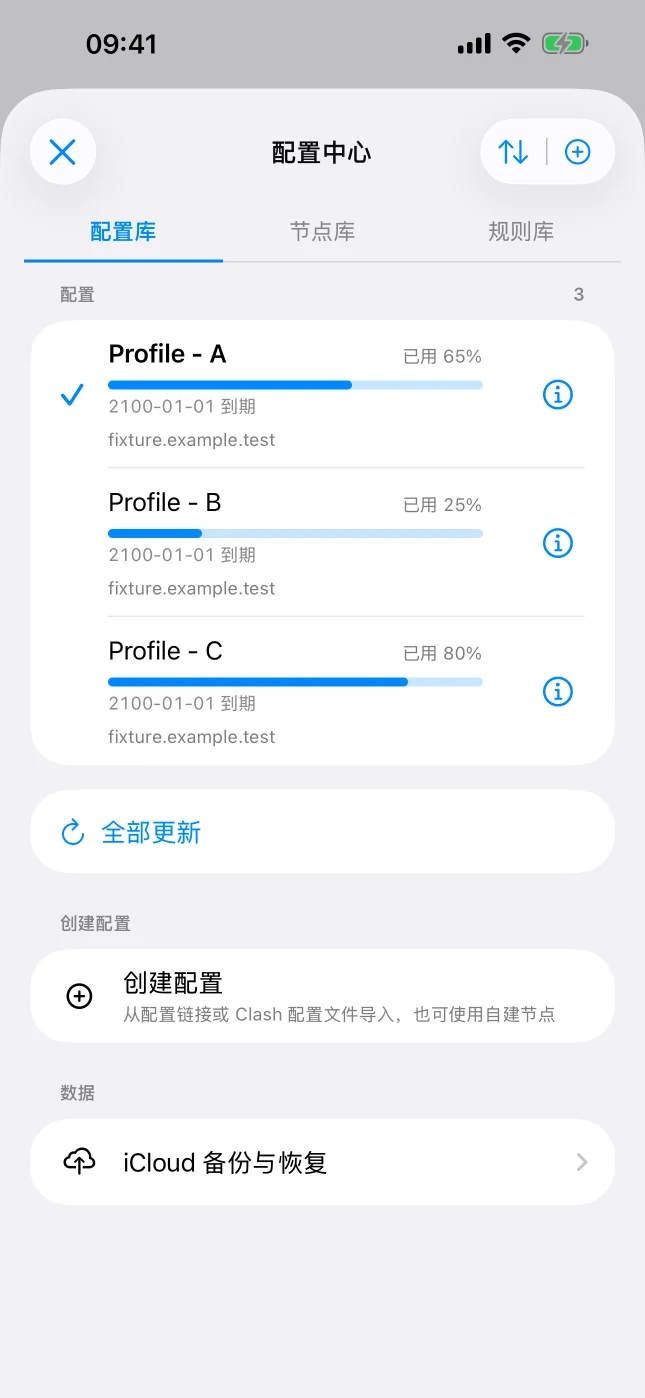
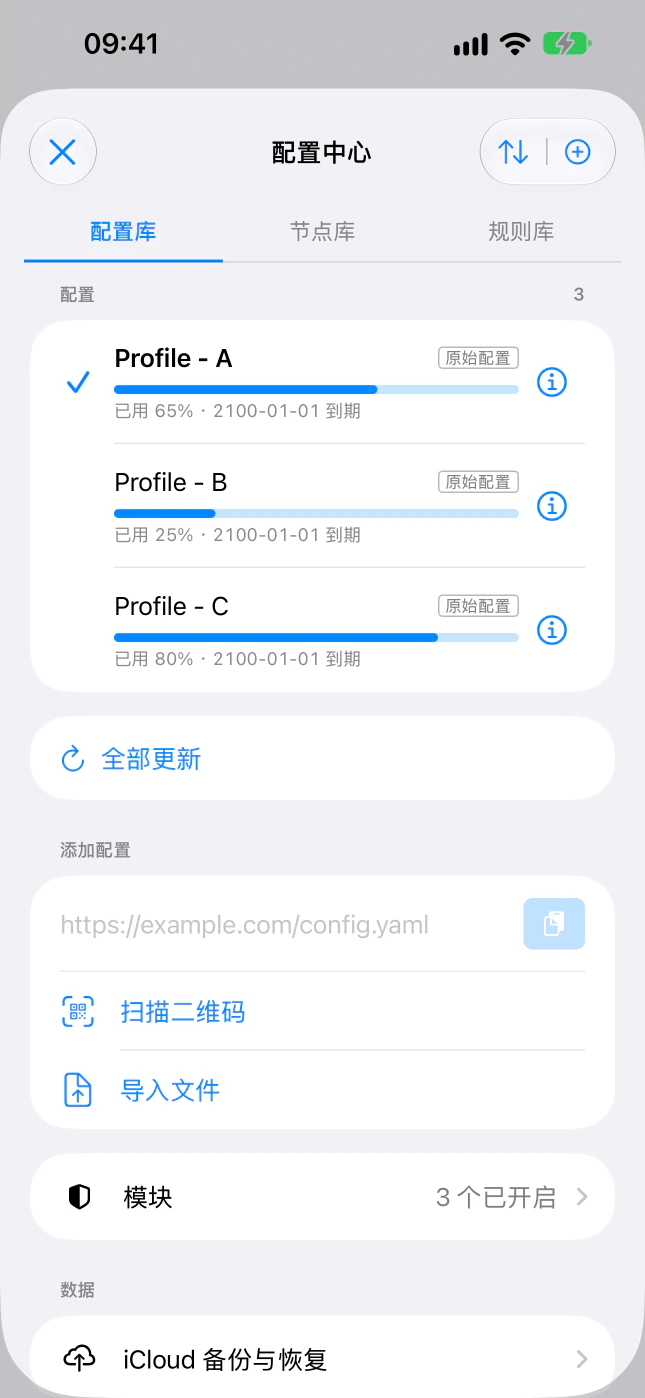
docs: refresh iPhone and iPad screenshots from iOS 1.0.13
Profiles, Proxies, and Utilities now show the Add Profile card, the
Modules row, Jump to Current Node, and the renamed tool sections. The
iPhone gallery adds Modules, module details with a panel and settings,
and View Source for a large configuration. All data is example data.

Claude-Session: https://claude.ai/code/session_015AeJZnER4qeabBoE5b48Ke

diff --git a/docs/zh/platforms/ios.md b/docs/zh/platforms/ios.md
@@ -63,7 +63,7 @@ pageClass: clash-platform-page
       <label for="ios-gallery-tablet-zh">iPad</label>
       <div class="platform-gallery-panels">
         <div class="platform-gallery-panel platform-gallery-panel--phone">
-          <div class="platform-screenshot-rail platform-screenshot-rail--phone" aria-label="Clash iPhone 版截图"><img src="/screenshots/platforms/ios/gallery/iphone-zh-01.webp" alt="iPhone · 首页" loading="lazy"><img src="/screenshots/platforms/ios/gallery/iphone-zh-02.webp" alt="iPhone · 配置列表" loading="lazy"><img src="/screenshots/platforms/ios/gallery/iphone-zh-03.webp" alt="iPhone · 代理与策略组" loading="lazy"><img src="/screenshots/platforms/ios/gallery/iphone-zh-04.webp" alt="iPhone · 分流规则" loading="lazy"><img src="/screenshots/platforms/ios/gallery/iphone-zh-05.webp" alt="iPhone · 网络工具" loading="lazy"></div>
+          <div class="platform-screenshot-rail platform-screenshot-rail--phone" aria-label="Clash iPhone 版截图"><img src="/screenshots/platforms/ios/gallery/iphone-zh-01.webp" alt="iPhone · 首页" loading="lazy"><img src="/screenshots/platforms/ios/gallery/iphone-zh-02.webp" alt="iPhone · 配置列表" loading="lazy"><img src="/screenshots/platforms/ios/gallery/iphone-zh-03.webp" alt="iPhone · 代理与策略组" loading="lazy"><img src="/screenshots/platforms/ios/gallery/iphone-zh-04.webp" alt="iPhone · 分流规则" loading="lazy"><img src="/screenshots/platforms/ios/gallery/iphone-zh-05.webp" alt="iPhone · 网络工具" loading="lazy"><img src="/screenshots/platforms/ios/gallery/iphone-zh-06.webp" alt="iPhone · 模块与 HTTPS 解密" loading="lazy"><img src="/screenshots/platforms/ios/gallery/iphone-zh-07.webp" alt="iPhone · 模块详情：面板与设置" loading="lazy"><img src="/screenshots/platforms/ios/gallery/iphone-zh-08.webp" alt="iPhone · 查看大配置的源码" loading="lazy"></div>
         </div>
         <div class="platform-gallery-panel platform-gallery-panel--tablet">
           <div class="platform-screenshot-rail platform-screenshot-rail--tablet" aria-label="Clash iPad 版截图">

diff --git a/docs/platforms/ios.md b/docs/platforms/ios.md
@@ -105,6 +105,9 @@ pageClass: clash-platform-page
             <img src="/screenshots/platforms/ios/gallery/iphone-03.webp" alt="iPhone · Proxies and policy groups" loading="lazy">
             <img src="/screenshots/platforms/ios/gallery/iphone-04.webp" alt="iPhone · Routing rules" loading="lazy">
             <img src="/screenshots/platforms/ios/gallery/iphone-05.webp" alt="iPhone · Network utilities" loading="lazy">
+            <img src="/screenshots/platforms/ios/gallery/iphone-06.webp" alt="iPhone · Modules and HTTPS decryption" loading="lazy">
+            <img src="/screenshots/platforms/ios/gallery/iphone-07.webp" alt="iPhone · Module details with panel and settings" loading="lazy">
+            <img src="/screenshots/platforms/ios/gallery/iphone-08.webp" alt="iPhone · Viewing the source of a large configuration" loading="lazy">
           </div>
         </div>
         <div class="platform-gallery-panel platform-gallery-panel--tablet">
